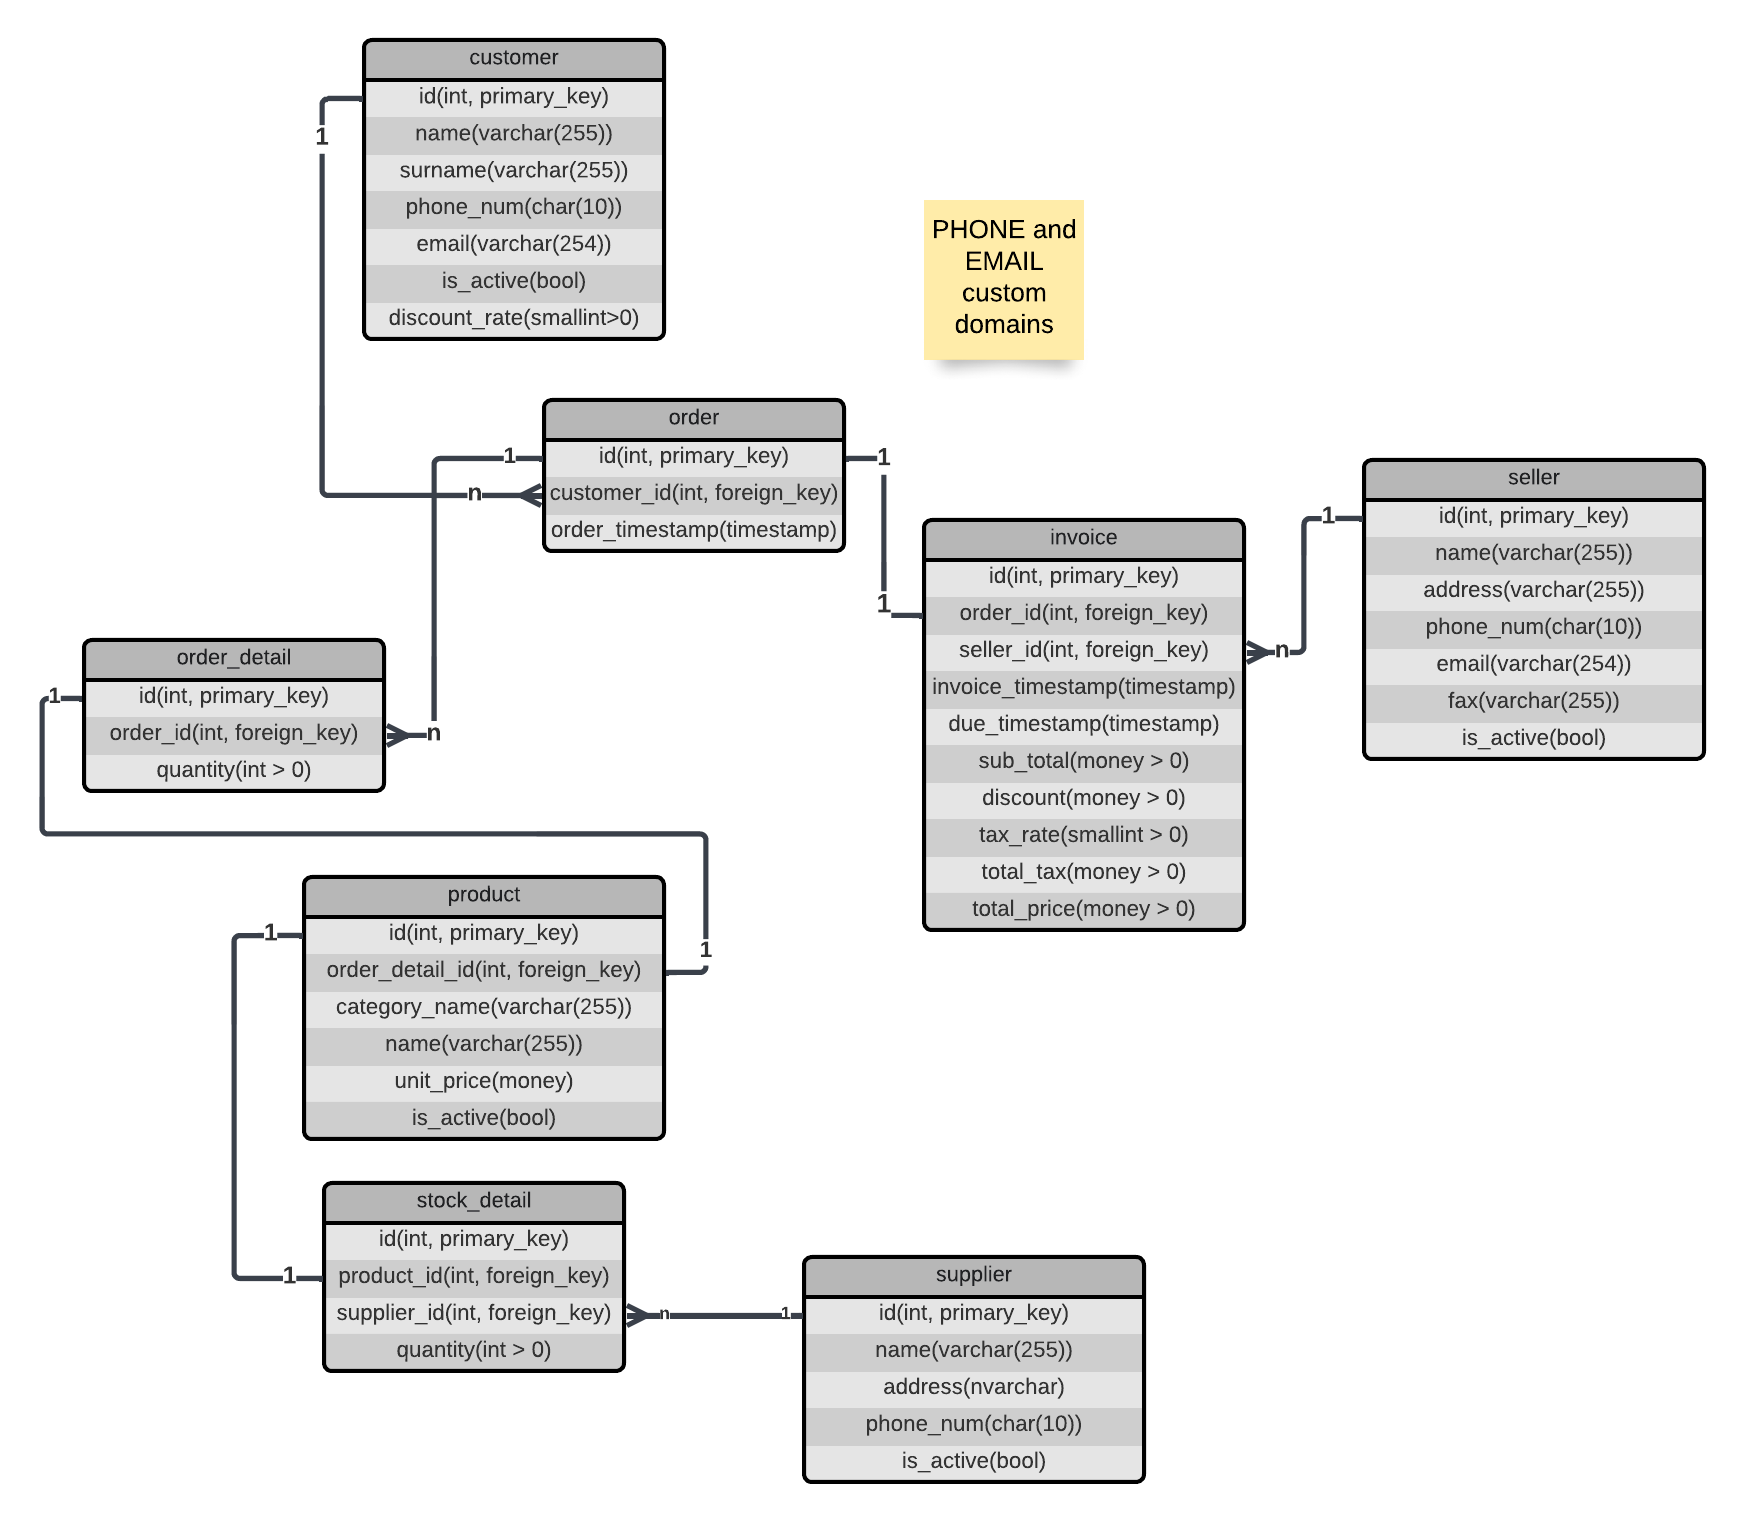
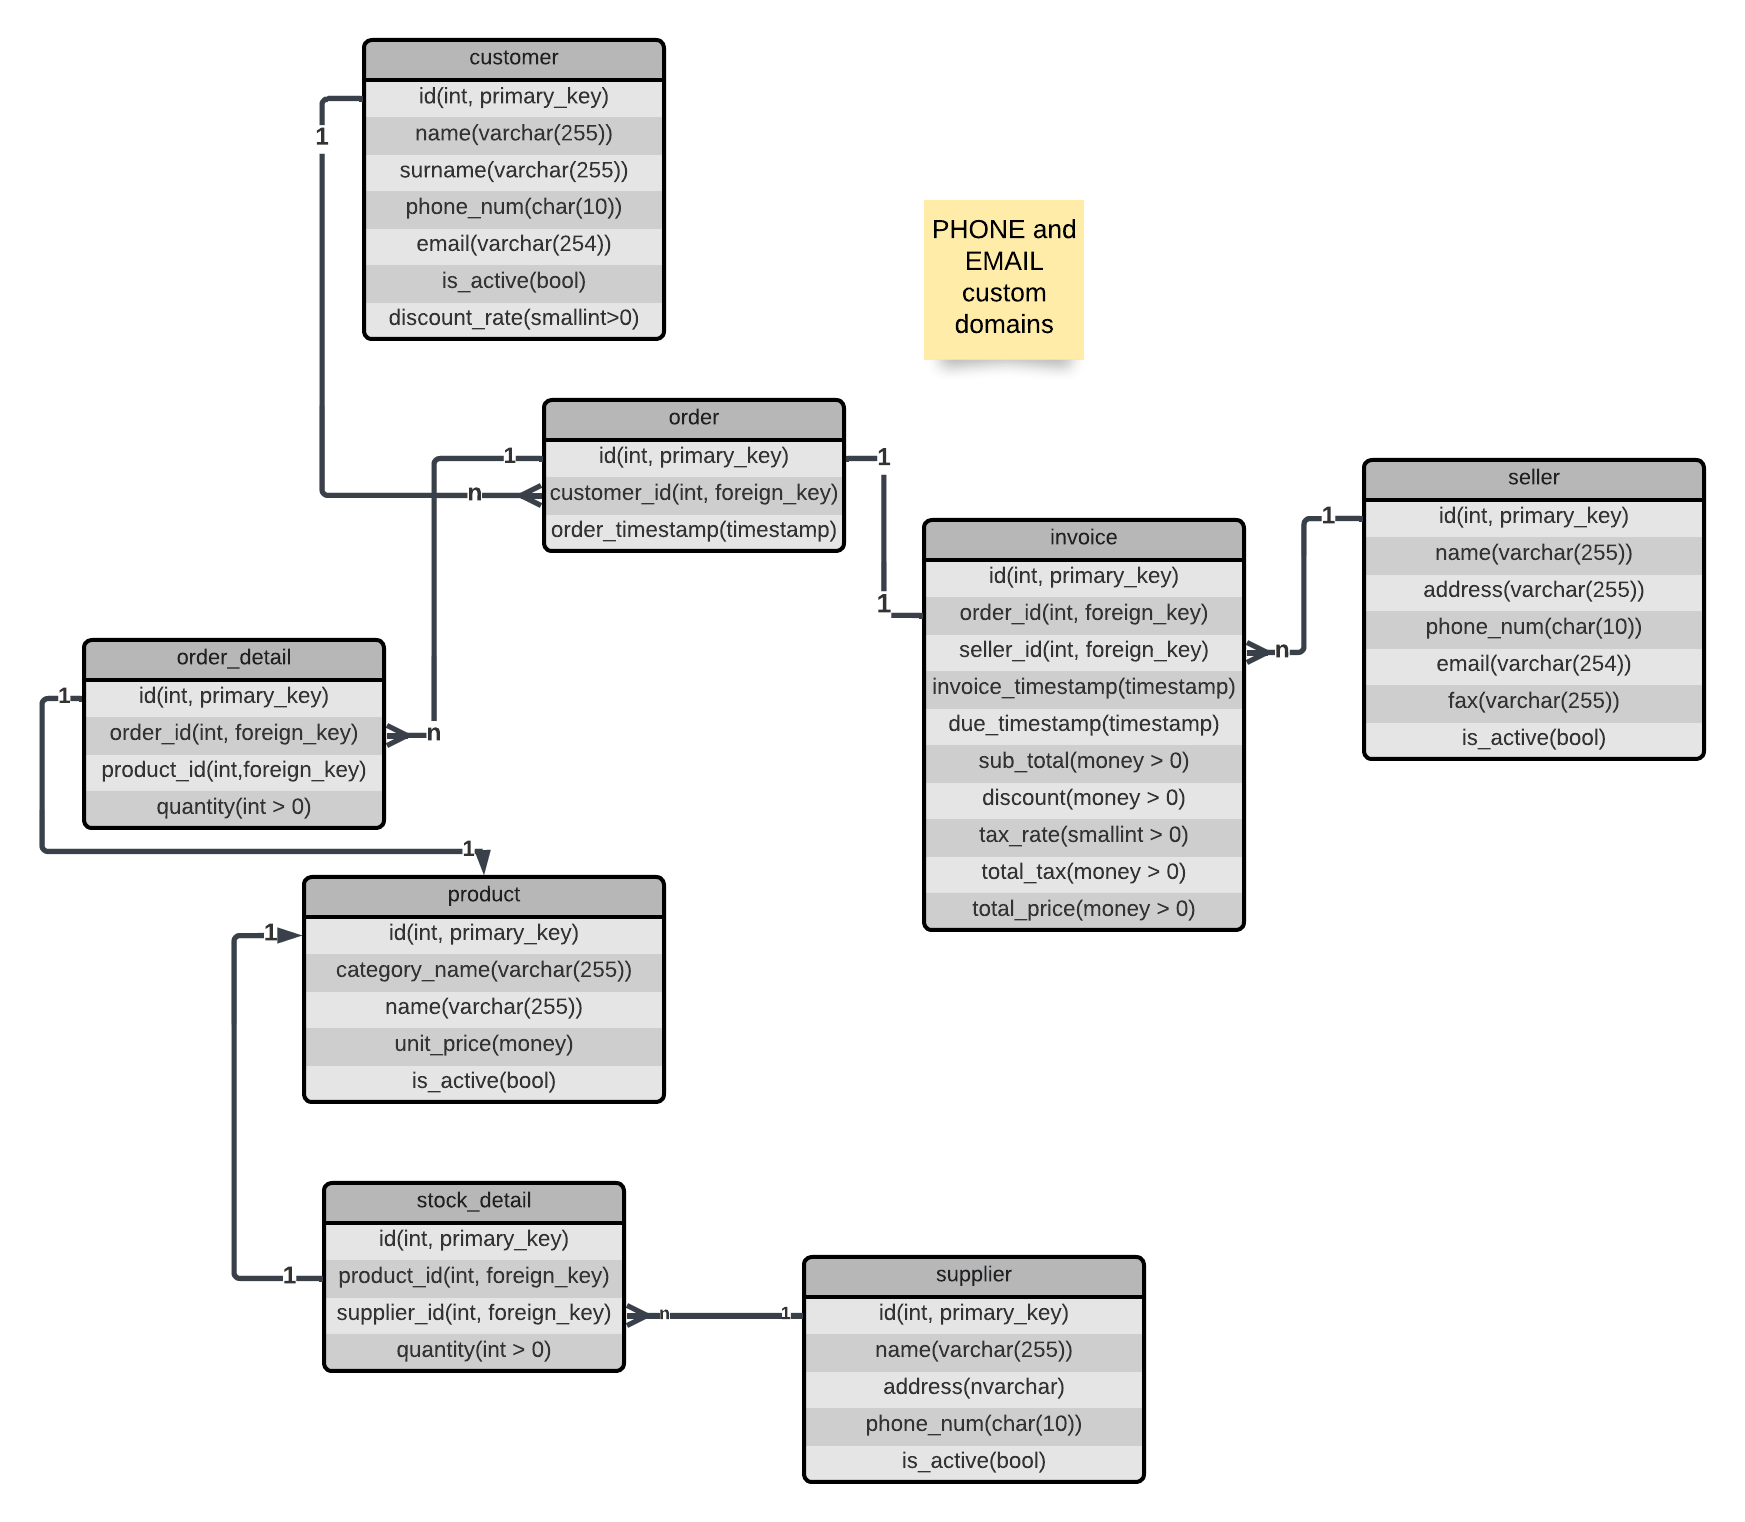
ER diagram model updated & Product model changed to child object of stock details

Changed region(s): [[0.1547, 0.6176, 0.4023, 0.772], [0.0309, 0.4941, 0.4023, 0.5867], [0.4023, 0.5558, 0.4332, 0.6176]]

diff --git a/src/main/java/com/demo/app/models/entities/Product.java b/src/main/java/com/demo/app/models/entities/Product.java
@@ -20,10 +20,6 @@ public class Product {
 	@Id
 	@GeneratedValue(strategy = GenerationType.IDENTITY)
 	private int id;
-	// @JoinColumn(name = "product_id", referencedColumnName = "id")
-	@OneToOne(cascade = CascadeType.ALL, fetch = FetchType.EAGER)
-	@JoinColumn(name = "id", referencedColumnName = "product_id")
-	private StockDetail stockDetail;
 	@Column(name = "category_name")
 	private String categoryName;
 	@Column(name = "name")
@@ -33,19 +29,17 @@ public class Product {
 	@Column(name = "is_active")
 	private Boolean isActive;
 
-	public Product(int id, StockDetail stockDetail, String categoryName, String name, Double unitPrice,
+	public Product(int id, String categoryName, String name, Double unitPrice,
 			Boolean isActive) {
 		this.id = id;
-		this.stockDetail = stockDetail;
 		this.categoryName = categoryName;
 		this.name = name;
 		this.unitPrice = unitPrice;
 		this.isActive = isActive;
 	}
 
-	public Product(StockDetail stockDetail, String categoryName, String name, Double unitPrice,
+	public Product(String categoryName, String name, Double unitPrice,
 			Boolean isActive) {
-		this.stockDetail = stockDetail;
 		this.categoryName = categoryName;
 		this.name = name;
 		this.unitPrice = unitPrice;
@@ -62,15 +56,6 @@ public class Product {
 
 	public Product setId(int id) {
 		this.id = id;
-		return this;
-	}
-
-	public StockDetail getStockDetail() {
-		return stockDetail;
-	}
-
-	public Product setStockDetail(StockDetail stockDetail) {
-		this.stockDetail = stockDetail;
 		return this;
 	}
 
@@ -113,7 +98,7 @@ public class Product {
 	@Override
 	public String toString() {
 		return "Product [categoryName=" + categoryName + ", id=" + id + ", isActive=" + isActive + ", name=" + name
-				+ ", stockDetail=" + stockDetail + ", unitPrice=" + unitPrice + "]\n";
+				+ ", unitPrice=" + unitPrice + "]\n";
 	}
 
 }

diff --git a/src/main/java/com/demo/app/models/entities/StockDetail.java b/src/main/java/com/demo/app/models/entities/StockDetail.java
@@ -2,11 +2,15 @@ package com.demo.app.models.entities;
 
 import org.hibernate.annotations.Proxy;
 
+import jakarta.persistence.CascadeType;
 import jakarta.persistence.Column;
 import jakarta.persistence.Entity;
+import jakarta.persistence.FetchType;
 import jakarta.persistence.GeneratedValue;
 import jakarta.persistence.GenerationType;
 import jakarta.persistence.Id;
+import jakarta.persistence.JoinColumn;
+import jakarta.persistence.OneToOne;
 import jakarta.persistence.Table;
 
 @Entity
@@ -16,6 +20,10 @@ public class StockDetail {
 	@Id
 	@GeneratedValue(strategy = GenerationType.IDENTITY)
 	private int id;
+	@OneToOne(cascade = CascadeType.REFRESH, fetch = FetchType.EAGER)
+	@JoinColumn(name = "id", referencedColumnName = "stock_detail_id")
+	private Product product;
+
 	@Column(name = "quantity")
 	private Integer quantity;
 
@@ -41,6 +49,15 @@ public class StockDetail {
 		return this;
 	}
 
+	public Product getProduct() {
+		return product;
+	}
+
+	public StockDetail setProduct(Product product) {
+		this.product = product;
+		return this;
+	}
+
 	public Integer getQuantity() {
 		return quantity;
 	}
@@ -52,7 +69,7 @@ public class StockDetail {
 
 	@Override
 	public String toString() {
-		return "StockDetails [id=" + id + ", quantity=" + quantity + "]\n";
+		return "StockDetail [id=" + id + ", product=" + product + ", quantity=" + quantity + "]";
 	}
 
 }

diff --git a/src/main/java/com/demo/app/services/implementations/StockDetailServiceImpl.java b/src/main/java/com/demo/app/services/implementations/StockDetailServiceImpl.java
@@ -9,6 +9,7 @@ import com.demo.app.models.dtos.StockDetailDTO;
 import com.demo.app.models.entities.StockDetail;
 import com.demo.app.repository.dao.StockDetailDAO;
 import com.demo.app.repository.daoImpl.StockDetailDAOImpl;
+import com.demo.app.services.abstracts.ProductService;
 import com.demo.app.services.abstracts.StockDetailService;
 
 /**
@@ -16,6 +17,7 @@ import com.demo.app.services.abstracts.StockDetailService;
  */
 public class StockDetailServiceImpl implements StockDetailService {
 	StockDetailDAO stockDetailDAO = new StockDetailDAOImpl();
+	ProductService productService = new ProductServiceImpl();
 
 	@Override
 	public int add(StockDetailDTO dto) {
@@ -65,6 +67,7 @@ public class StockDetailServiceImpl implements StockDetailService {
 	@Override
 	public StockDetailDTO toDTO(StockDetail entity) {
 		return Objects.nonNull(entity) ? new StockDetailDTO()
+				.setProduct(productService.toDTO(entity.getProduct()))
 				.setQuantity(entity.getQuantity())
 				: null;
 	}
@@ -72,6 +75,7 @@ public class StockDetailServiceImpl implements StockDetailService {
 	@Override
 	public StockDetail toEntity(StockDetailDTO dto) {
 		return Objects.nonNull(dto) ? new StockDetail()
+				.setProduct(productService.toEntity(dto.getProduct()))
 				.setQuantity(dto.getQuantity())
 				: null;
 	}

diff --git a/src/main/java/com/demo/app/services/implementations/ProductServiceImpl.java b/src/main/java/com/demo/app/services/implementations/ProductServiceImpl.java
@@ -10,14 +10,12 @@ import com.demo.app.models.entities.Product;
 import com.demo.app.repository.dao.ProductDAO;
 import com.demo.app.repository.daoImpl.ProductDAOImpl;
 import com.demo.app.services.abstracts.ProductService;
-import com.demo.app.services.abstracts.StockDetailService;
 
 /**
  * ProductServiceImpl
  */
 public class ProductServiceImpl implements ProductService {
 	private static ProductDAO productDAO = new ProductDAOImpl();
-	private static StockDetailService stockDetailService = new StockDetailServiceImpl();
 
 	@Override
 	public int add(ProductDTO dto) {
@@ -69,7 +67,6 @@ public class ProductServiceImpl implements ProductService {
 		return Objects.nonNull(entity) ? new ProductDTO()
 				.setCategoryName(entity.getCategoryName())
 				.setName(entity.getName())
-				.setStockDetail(stockDetailService.toDTO(entity.getStockDetail()))
 				.setUnitPrice(entity.getUnitPrice())
 				.setActive(entity.isActive())
 				: null;
@@ -80,7 +77,6 @@ public class ProductServiceImpl implements ProductService {
 		return Objects.nonNull(dto) ? new Product()
 				.setCategoryName(dto.getCategoryName())
 				.setName(dto.getName())
-				.setStockDetail(stockDetailService.toEntity(dto.getStockDetail()))
 				.setUnitPrice(dto.getUnitPrice())
 				.setActive(dto.isActive())
 				: null;

diff --git a/src/main/java/com/demo/app/models/dtos/ProductDTO.java b/src/main/java/com/demo/app/models/dtos/ProductDTO.java
@@ -6,7 +6,6 @@ package com.demo.app.models.dtos;
 public class ProductDTO {
 	private String categoryName;
 	private String name;
-	private StockDetailDTO stockDetail;
 	private Double unitPrice;
 	private Boolean isActive;
 
@@ -25,15 +24,6 @@ public class ProductDTO {
 
 	public ProductDTO setName(String name) {
 		this.name = name;
-		return this;
-	}
-
-	public StockDetailDTO getStockDetail() {
-		return stockDetail;
-	}
-
-	public ProductDTO setStockDetail(StockDetailDTO stockDetail) {
-		this.stockDetail = stockDetail;
 		return this;
 	}
 
@@ -58,7 +48,7 @@ public class ProductDTO {
 	@Override
 	public String toString() {
 		return "ProductDTO [categoryName=" + categoryName + ", isActive=" + isActive + ", name=" + name
-				+ ", stockDetail=" + stockDetail + ", unitPrice=" + unitPrice + "]\n";
+				+ ", unitPrice=" + unitPrice + "]\n";
 	}
 
 }

diff --git a/src/main/java/com/demo/app/repository/daoImpl/StockDetailDAOImpl.java b/src/main/java/com/demo/app/repository/daoImpl/StockDetailDAOImpl.java
@@ -51,8 +51,10 @@ public class StockDetailDAOImpl implements StockDetailDAO {
     @Override
     public void update(StockDetail stockDetail) throws SQLException {
         StockDetail updatedStockDetail = findById(stockDetail.getId());
-        updatedStockDetail.setQuantity(Objects.nonNull(stockDetail.getQuantity()) ? stockDetail.getQuantity()
-                : updatedStockDetail.getQuantity());
+        updatedStockDetail.setProduct(Objects.nonNull(stockDetail.getProduct()) ? stockDetail.getProduct()
+                : updatedStockDetail.getProduct())
+                .setQuantity(Objects.nonNull(stockDetail.getQuantity()) ? stockDetail.getQuantity()
+                        : updatedStockDetail.getQuantity());
         databaseEngine.merge(updatedStockDetail);
 
     }

diff --git a/src/main/java/com/demo/app/repository/daoImpl/ProductDAOImpl.java b/src/main/java/com/demo/app/repository/daoImpl/ProductDAOImpl.java
@@ -61,9 +61,7 @@ public class ProductDAOImpl implements ProductDAO {
                 .setUnitPrice(Objects.nonNull(product.getUnitPrice()) ? product.getUnitPrice()
                         : updatedProduct.getUnitPrice())
                 .setCategoryName(Objects.nonNull(product.getCategoryName()) ? product.getCategoryName()
-                        : updatedProduct.getCategoryName())
-                .setStockDetail(Objects.nonNull(product.getStockDetail()) ? product.getStockDetail()
-                        : updatedProduct.getStockDetail());
+                        : updatedProduct.getCategoryName());
         databaseEngine.merge(updatedProduct);
     }
 

diff --git a/src/main/java/com/demo/app/models/dtos/StockDetailDTO.java b/src/main/java/com/demo/app/models/dtos/StockDetailDTO.java
@@ -4,7 +4,17 @@ package com.demo.app.models.dtos;
  * StockDetailDTO
  */
 public class StockDetailDTO {
+	private ProductDTO product;
 	private Integer quantity;
+
+	public ProductDTO getProduct() {
+		return product;
+	}
+
+	public StockDetailDTO setProduct(ProductDTO product) {
+		this.product = product;
+		return this;
+	}
 
 	public Integer getQuantity() {
 		return quantity;
@@ -17,7 +27,7 @@ public class StockDetailDTO {
 
 	@Override
 	public String toString() {
-		return "StockDetailDTO [quantity=" + quantity + "]\n";
+		return "StockDetailDTO [product=" + product + ", quantity=" + quantity + "]";
 	}
 
 }
